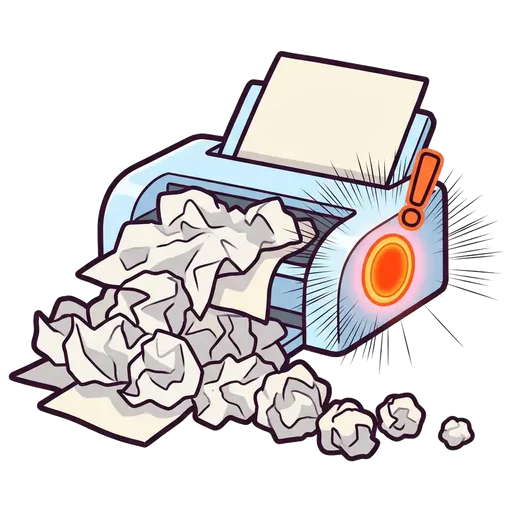
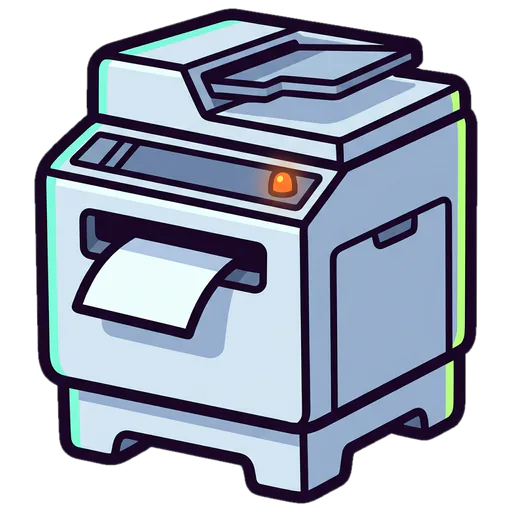
fix: clearer paper-jam printer, neutral tornado and necktie colours, locked thumbnail and stamp badge

diff --git a/public-office/art/SOURCES.md b/public-office/art/SOURCES.md
@@ -451,3 +451,26 @@ generated sources, and then the per-theme 64 px edge profile was recomputed, so 
 Afterwards I re-scanned every theme 4–6 and 4-night wall for saturated cyan/red/magenta runs at least 60 px wide and at most
 1/5 as tall as wide. The runs that remain are not glowing: the light-blue bench in `wall-5-a`, the orange tent and flat
 dark-red counter in `wall-6-b`, and a flat blue sign border in `wall-4-night-b`.
+
+
+## Polish round (2026-11-05, branch fix/office-part2-polish)
+
+Spend **3.5 credits** (part-2 total **116 cr**, balance 1240.33 → 1236.83).
+
+- **Wall joins** (`wall-0-night-*`, `wall-4-*`, `wall-4-night-*`, `wall-5-*`, `wall-6-*`): the 64 px per-row edge-profile blend
+  produced a horizontally smeared band at every tile join. Replaced by a drawn pole at the join (`poles.py`, job tmp dir): each
+  wall carries the right half of a pole at its left edge and the left half at its right edge, from one shared profile (dark
+  outline, highlight stripe, shadow side, bolt bands, soft contact shadow), so any two tiles meet in one complete pole. Part-2 walls
+  were re-cut from their generated sources with NO edge blend (neon repaint kept); `wall-0-night-*` (sources not in this job)
+  are painted over the shipped files, with a 64 px half so the old smear is fully covered. Half widths (px at 1024) and colours:
+  theme 4 utility pole 36 #B0A6BE, 4-night 36 #707492, theme 5 tiled pillar 40 #D6ECE4, theme 6 dark pole 36 #686074,
+  0-night mint pillar 64 #B2E4D4. Checked by composing a|b|c|a at in-game scale (512 px) and viewing every join.
+  Part-1 walls 0, 0-dawn, 1, 2, 3 have the same smear but are unchanged here.
+- `prop-doc-tornado`: purple → cool grey/white (local recolour: purple/cyan pixels to hue 215°, saturation 0.08, outline pixels to a
+  dark blue-grey). `prop-necktie`: magenta → navy (hue 222°, saturation 0.62). Silhouettes and canvases unchanged.
+
+| file | model | cr | prompt |
+|---|---|---|---|
+| `prop-paper-jam.webp` (cut out as props: 512×512, 8 px margin, centred) | nano_banana_flash | 1.5 | $STYLE. Single game obstacle prop icon, one object only, centered, large and bold with a thick dark outline and saturated neon accent colors so it reads clearly at small size against pastel backgrounds, slight three-quarter view, on a pure flat white background, no shadow, no ground, no people, no hands. The object: one chunky floor-standing office photocopier printer standing on the ground on its own base, simple boxy silhouette, light blue-grey body with a very thick dark outline, a single sheet of paper sticking out of its slot, a small glowing orange warning light on the front panel. Only the printer: no paper cloud, no crumpled paper pile, no flying papers, no motion lines, no smoke. |
+| `cut/locked.webp` (9:16 → 1080×1920; archive thumbnail for locked records) | nano_banana_flash | 1.5 | $STYLE. Vertical 9:16 still illustration with a fully drawn background, absolutely no lettering, no words, no numbers: a closed secret office dossier, a thick manila folder lying on a dark desk under a desk lamp, tied with a red string, a big plain round red ink stamp mark with no letters on the cover, a chunky golden padlock on the string, a few blank black redaction bars on a paper peeking out, soft dim mysterious lighting, calm and cute not scary. |
+| `ach/stamps-15.webp` (128×128, 1 px margin) | gpt_image_2_5 | 0.5 | Round achievement badge icon for a mobile game, a single circular medal filling the whole square frame edge to edge, thick bold dark outline, pastel circular face with a neon colored rim, one big simple centered symbol readable at 64 pixels, bright Korean webtoon comic style, bold clean outlines, flat cel shading, transparent background outside the circle, no text, no letters, no numbers, no digits, no logos. The symbol: a cute wooden Korean seal stamp with a red ink base pressing onto a little stamp card completely filled with small round red stamp marks (plain circles, no letters), sparkles, red rim. |
